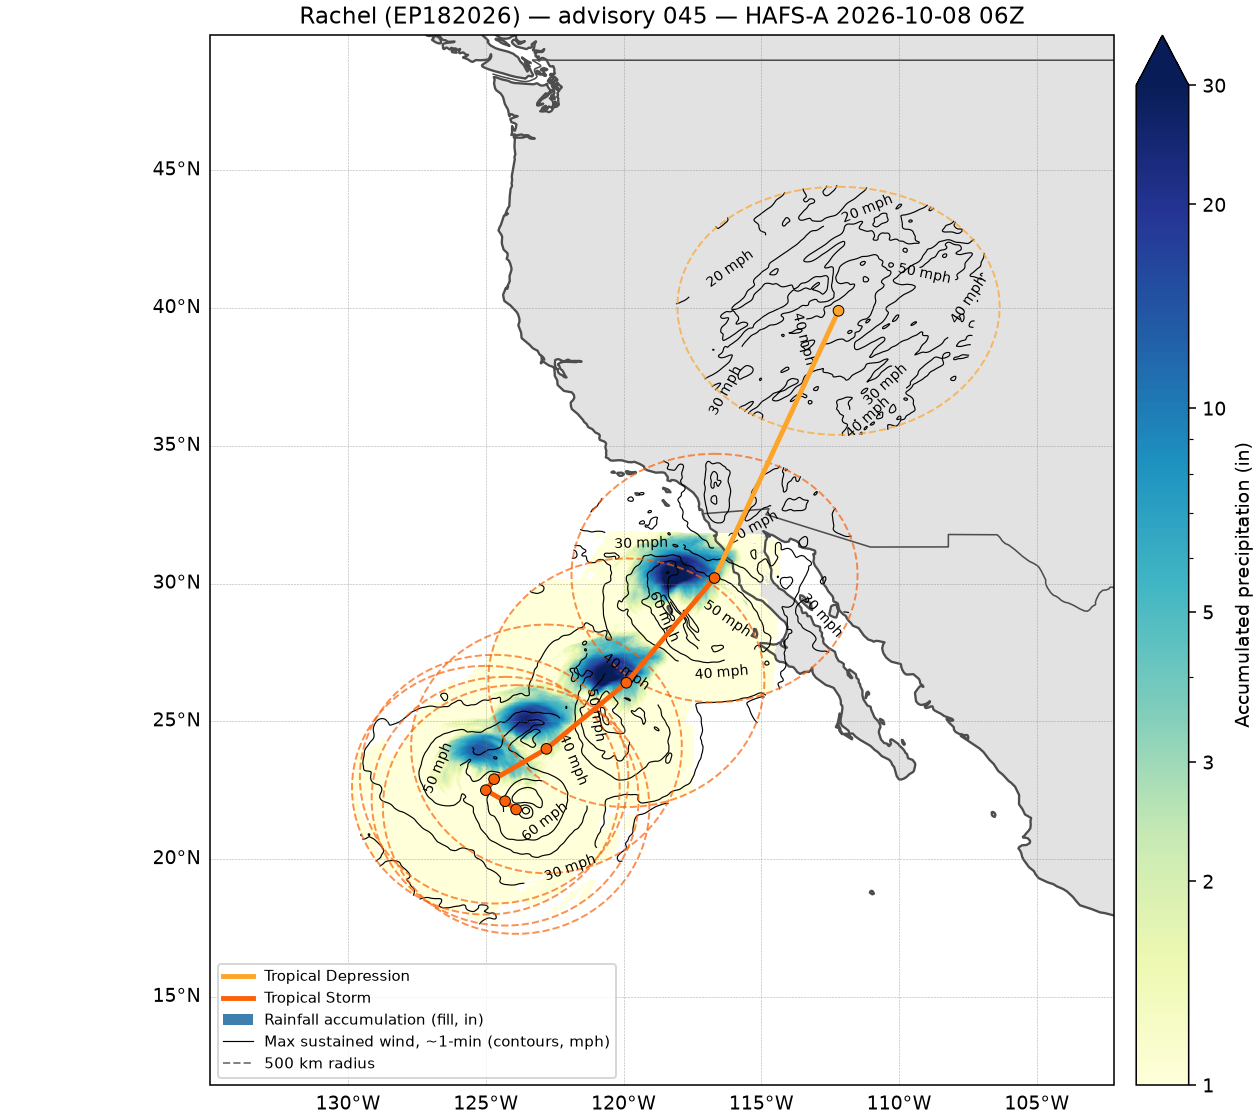
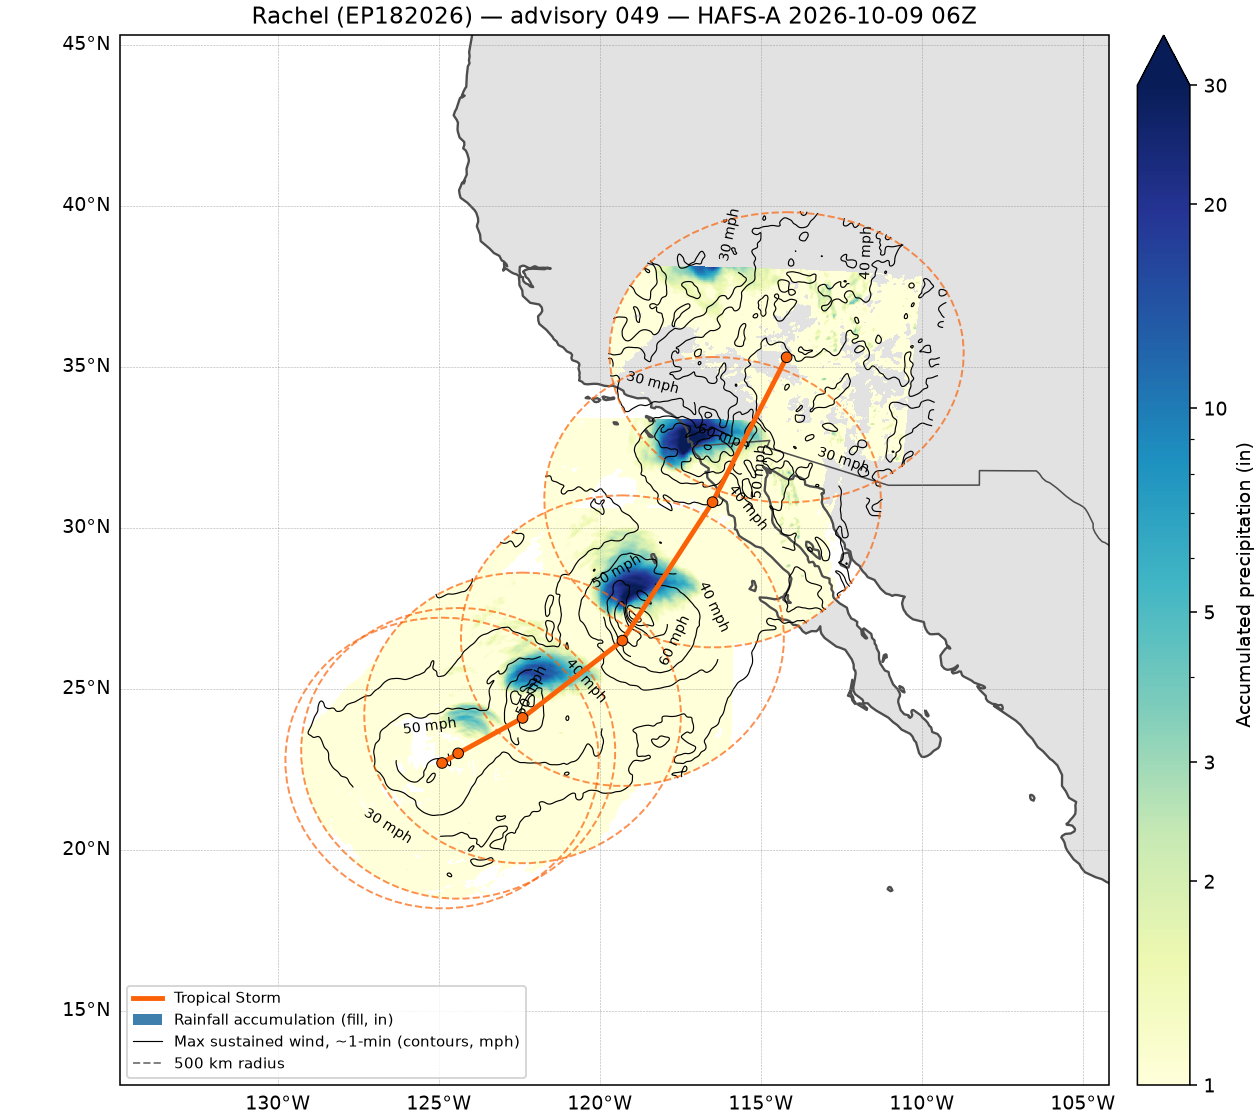
Automated render (2026-10-09T12:06Z)

diff --git a/docs/posts/2026-09-09-ep-storm-precip-wind/index.html b/docs/posts/2026-09-09-ep-storm-precip-wind/index.html
@@ -463,9 +463,9 @@ Important
 <span id="cb2-15"><a href="#cb2-15" aria-hidden="true" tabindex="-1"></a>    <span class="bu">print</span>(<span class="st">"No active storms in AL/EP/CP right now — nothing to plot today."</span>)</span></code></pre></div><button title="Copy to Clipboard" class="code-copy-button"><i class="bi"></i></button></div>
 </details>
 <div class="cell-output cell-output-stdout">
-<pre><code>Found: Isaias (NA) — advisory 007a
-Found: Rachel (EP) — advisory 045
-Found: Simon (EP) — advisory 004a</code></pre>
+<pre><code>Found: Isaias (NA) — advisory 011a
+Found: Rachel (EP) — advisory 049
+Found: Simon (EP) — advisory 008a</code></pre>
 </div>
 </div>
 </section>
@@ -615,18 +615,26 @@ Found: Simon (EP) — advisory 004a</code></pre>
 <tr class="odd">
 <th data-quarto-table-cell-role="th">0</th>
 <td>Isaias (NA)</td>
-<td>2026-10-08 06Z</td>
-<td>7</td>
-<td>72</td>
-<td>Hurricane (Cat 1-2)</td>
+<td>2026-10-09 06Z</td>
+<td>6</td>
+<td>60</td>
+<td>Major Hurricane (Cat 3+)</td>
 </tr>
 <tr class="even">
 <th data-quarto-table-cell-role="th">1</th>
 <td>Rachel (EP)</td>
-<td>2026-10-08 06Z</td>
-<td>8</td>
-<td>96</td>
+<td>2026-10-09 06Z</td>
+<td>6</td>
+<td>60</td>
 <td>Tropical Storm</td>
+</tr>
+<tr class="odd">
+<th data-quarto-table-cell-role="th">2</th>
+<td>Simon (EP)</td>
+<td>2026-10-09 06Z</td>
+<td>9</td>
+<td>120</td>
+<td>Major Hurricane (Cat 3+)</td>
 </tr>
 </tbody>
 </table>
@@ -813,21 +821,27 @@ Found: Simon (EP) — advisory 004a</code></pre>
 <span id="cb5-171"><a href="#cb5-171" aria-hidden="true" tabindex="-1"></a>composite_summary</span></code></pre></div><button title="Copy to Clipboard" class="code-copy-button"><i class="bi"></i></button></div>
 </details>
 <div class="cell-output cell-output-stdout">
-<pre><code>&lt;!-- al092026 window 0h-12h (fxx 6-18): precip range [0.00,482.12] mm, wind range [1.15,42.92] m/s --&gt;
-&lt;!-- al092026 window 12h-24h (fxx 18-30): precip range [0.00,1299.15] mm, wind range [1.03,56.72] m/s --&gt;
-&lt;!-- al092026 window 24h-36h (fxx 30-42): precip range [0.00,2921.02] mm, wind range [1.45,70.00] m/s --&gt;
-&lt;!-- al092026 window 36h-48h (fxx 42-54): precip range [0.00,3100.01] mm, wind range [1.02,70.00] m/s --&gt;
-&lt;!-- al092026 window 48h-60h (fxx 54-66): precip range [0.00,3062.48] mm, wind range [1.31,28.05] m/s --&gt;
-&lt;!-- al092026 window 60h-72h (fxx 66-78): precip range [0.00,2977.96] mm, wind range [1.23,26.05] m/s --&gt;
-&lt;!-- al092026 FINAL: precip total range [0.00,3131.39] mm (0.00 to 123.28 in) --&gt;
-&lt;!-- ep182026 window 0h-12h (fxx 3-15): precip range [0.00,119.49] mm, wind range [0.54,31.40] m/s --&gt;
-&lt;!-- ep182026 window 12h-24h (fxx 15-27): precip range [0.00,231.54] mm, wind range [1.00,24.98] m/s --&gt;
-&lt;!-- ep182026 window 24h-36h (fxx 27-39): precip range [0.00,173.67] mm, wind range [1.02,23.52] m/s --&gt;
-&lt;!-- ep182026 window 36h-48h (fxx 39-51): precip range [0.00,660.07] mm, wind range [0.81,24.20] m/s --&gt;
-&lt;!-- ep182026 window 48h-60h (fxx 51-63): precip range [0.00,1060.43] mm, wind range [1.64,25.44] m/s --&gt;
-&lt;!-- ep182026 window 60h-72h (fxx 63-75): precip range [0.00,1445.49] mm, wind range [2.35,32.83] m/s --&gt;
-&lt;!-- ep182026 window 72h-96h (fxx 75-99): precip range [0.00,20.50] mm, wind range [2.42,32.83] m/s --&gt;
-&lt;!-- ep182026 FINAL: precip total range [0.00,1445.49] mm (0.00 to 56.91 in) --&gt;</code></pre>
+<pre><code>&lt;!-- al092026 window 0h-12h (fxx 6-18): precip range [0.00,1683.62] mm, wind range [1.60,60.27] m/s --&gt;
+&lt;!-- al092026 window 12h-24h (fxx 18-30): precip range [0.00,1889.45] mm, wind range [0.97,58.60] m/s --&gt;
+&lt;!-- al092026 window 24h-36h (fxx 30-42): precip range [0.00,1887.58] mm, wind range [1.49,32.11] m/s --&gt;
+&lt;!-- al092026 window 36h-48h (fxx 42-54): precip range [0.00,1882.53] mm, wind range [1.43,32.11] m/s --&gt;
+&lt;!-- al092026 window 48h-60h (fxx 54-66): precip range [0.00,1737.71] mm, wind range [1.30,25.62] m/s --&gt;
+&lt;!-- al092026 FINAL: precip total range [0.00,1922.11] mm (0.00 to 75.67 in) --&gt;
+&lt;!-- ep182026 window 0h-12h (fxx 3-15): precip range [0.00,153.25] mm, wind range [1.09,23.99] m/s --&gt;
+&lt;!-- ep182026 window 12h-24h (fxx 15-27): precip range [0.00,467.61] mm, wind range [0.72,27.64] m/s --&gt;
+&lt;!-- ep182026 window 24h-36h (fxx 27-39): precip range [0.00,897.94] mm, wind range [2.15,33.22] m/s --&gt;
+&lt;!-- ep182026 window 36h-48h (fxx 39-51): precip range [0.00,1317.97] mm, wind range [2.03,33.91] m/s --&gt;
+&lt;!-- ep182026 window 48h-60h (fxx 51-63): precip range [0.00,485.79] mm, wind range [2.29,33.91] m/s --&gt;
+&lt;!-- ep182026 FINAL: precip total range [0.00,1317.97] mm (0.00 to 51.89 in) --&gt;
+&lt;!-- ep202026 window 0h-12h (fxx 6-18): precip range [0.00,292.06] mm, wind range [1.60,41.39] m/s --&gt;
+&lt;!-- ep202026 window 12h-24h (fxx 18-30): precip range [0.00,645.88] mm, wind range [1.12,57.98] m/s --&gt;
+&lt;!-- ep202026 window 24h-36h (fxx 30-42): precip range [0.00,1212.81] mm, wind range [1.09,57.98] m/s --&gt;
+&lt;!-- ep202026 window 36h-48h (fxx 42-54): precip range [0.00,1764.50] mm, wind range [1.40,55.02] m/s --&gt;
+&lt;!-- ep202026 window 48h-60h (fxx 54-66): precip range [0.00,1854.04] mm, wind range [1.03,55.02] m/s --&gt;
+&lt;!-- ep202026 window 60h-72h (fxx 66-78): precip range [0.00,1792.40] mm, wind range [0.83,34.21] m/s --&gt;
+&lt;!-- ep202026 window 72h-96h (fxx 78-102): precip range [0.00,1847.50] mm, wind range [1.11,19.08] m/s --&gt;
+&lt;!-- ep202026 window 96h-120h (fxx 102-126): precip range [0.00,225.49] mm, wind range [0.52,25.39] m/s --&gt;
+&lt;!-- ep202026 FINAL: precip total range [0.00,2122.29] mm (0.00 to 83.55 in) --&gt;</code></pre>
 </div>
 <div id="composite-fields" class="cell-output cell-output-display" data-execution_count="4">
 <div>
@@ -849,20 +863,29 @@ Found: Simon (EP) — advisory 004a</code></pre>
 <tr class="odd">
 <th data-quarto-table-cell-role="th">0</th>
 <td>Isaias (NA)</td>
-<td>6</td>
+<td>5</td>
 <td>0</td>
-<td>3131.4</td>
-<td>115.6</td>
-<td>70.0</td>
+<td>1922.1</td>
+<td>91.9</td>
+<td>60.3</td>
 </tr>
 <tr class="even">
 <th data-quarto-table-cell-role="th">1</th>
 <td>Rachel (EP)</td>
-<td>7</td>
+<td>5</td>
 <td>0</td>
-<td>1445.5</td>
-<td>47.1</td>
-<td>32.8</td>
+<td>1318.0</td>
+<td>26.3</td>
+<td>33.9</td>
+</tr>
+<tr class="odd">
+<th data-quarto-table-cell-role="th">2</th>
+<td>Simon (EP)</td>
+<td>8</td>
+<td>0</td>
+<td>2122.3</td>
+<td>126.4</td>
+<td>58.0</td>
 </tr>
 </tbody>
 </table>
@@ -1059,6 +1082,11 @@ Found: Simon (EP) — advisory 004a</code></pre>
 <td>Rachel (EP)</td>
 <td>storm_images/ep182026.png</td>
 </tr>
+<tr class="odd">
+<th data-quarto-table-cell-role="th">2</th>
+<td>Simon (EP)</td>
+<td>storm_images/ep202026.png</td>
+</tr>
 </tbody>
 </table>
 
@@ -1110,13 +1138,16 @@ Found: Simon (EP) — advisory 004a</code></pre>
 <span id="cb10-37"><a href="#cb10-37" aria-hidden="true" tabindex="-1"></a>    <span class="bu">print</span>(<span class="ss">f"&lt;!-- Skipped </span><span class="sc">{</span>label<span class="sc">}</span><span class="ss">:</span><span class="ch">\n</span><span class="sc">{</span>tb<span class="sc">}</span><span class="ch">\n</span><span class="ss">--&gt;"</span>)</span></code></pre></div><button title="Copy to Clipboard" class="code-copy-button"><i class="bi"></i></button></div>
 </details>
 <div style="margin-bottom:1em;">
-<label for="storm-select"><strong>Select a storm:</strong></label> <select id="storm-select" onchange="showStormPanel(this.value)"> <option value="storm-al092026" selected="">Isaias (NA)</option> <option value="storm-ep182026">Rachel (EP)</option> </select>
+<label for="storm-select"><strong>Select a storm:</strong></label> <select id="storm-select" onchange="showStormPanel(this.value)"> <option value="storm-al092026" selected="">Isaias (NA)</option> <option value="storm-ep182026">Rachel (EP)</option> <option value="storm-ep202026">Simon (EP)</option> </select>
 </div>
 <div id="storm-al092026" class="storm-panel" style="display:block;">
-<img src="storm_images/al092026.png?v=1791461132" style="max-width:100%;">
+<img src="storm_images/al092026.png?v=1791547490" style="max-width:100%;">
 </div>
 <div id="storm-ep182026" class="storm-panel" style="display:none;">
-<img src="storm_images/ep182026.png?v=1791461132" style="max-width:100%;">
+<img src="storm_images/ep182026.png?v=1791547490" style="max-width:100%;">
+</div>
+<div id="storm-ep202026" class="storm-panel" style="display:none;">
+<img src="storm_images/ep202026.png?v=1791547490" style="max-width:100%;">
 </div>
 <script>
 function showStormPanel(id) {
@@ -1125,19 +1156,6 @@ function showStormPanel(id) {
   });
 }
 </script>
-<!-- Skipped Simon (EP):
-Traceback (most recent call last):
-  File "/tmp/ipykernel_2758/1513769429.py", line 102, in run_stage
-    return fn()
-           ^^^^
-  File "/tmp/ipykernel_2758/3934054208.py", line 82, in <lambda>
-    result = run_stage(storm["dropdown_label"], lambda storm=storm: load_track(storm))
-                                                                    ^^^^^^^^^^^^^^^^^
-  File "/tmp/ipykernel_2758/3934054208.py", line 69, in load_track
-    raise RuntimeError(
-RuntimeError: HAFS has no storm-following guidance for ep202026 (ATCF id '20e') yet - - it isn't in NOMADS's active HAFS storm registry (hafs/prod/inphfsa listing) right now. This is normal for a storm that was just designated; it should appear once NHC/NOMADS register it.
-
--->
 </div>
 </section>
 <section id="method-notes-caveats" class="level2">
